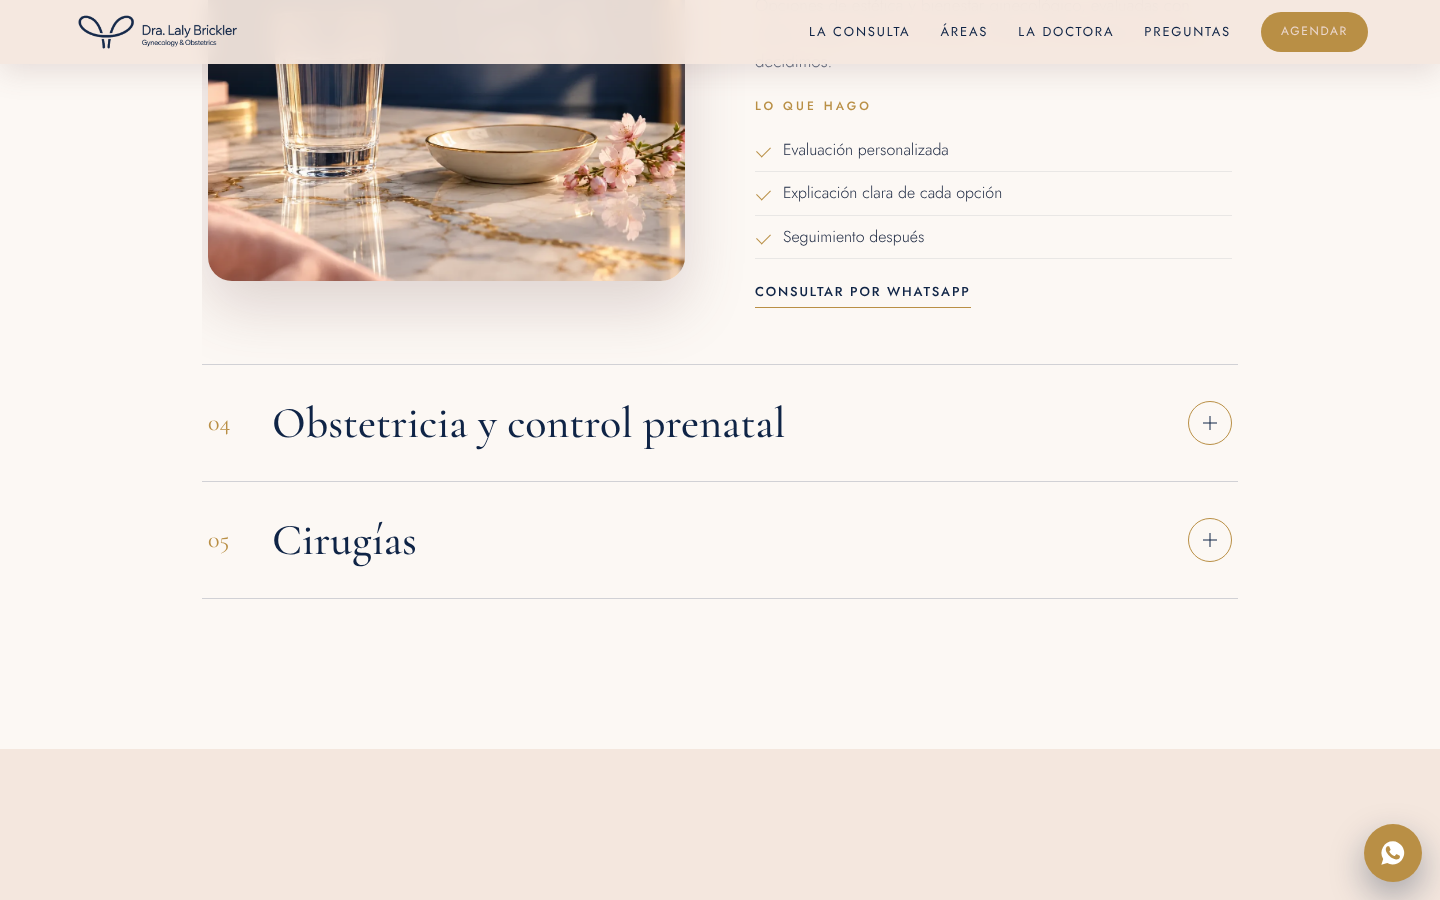
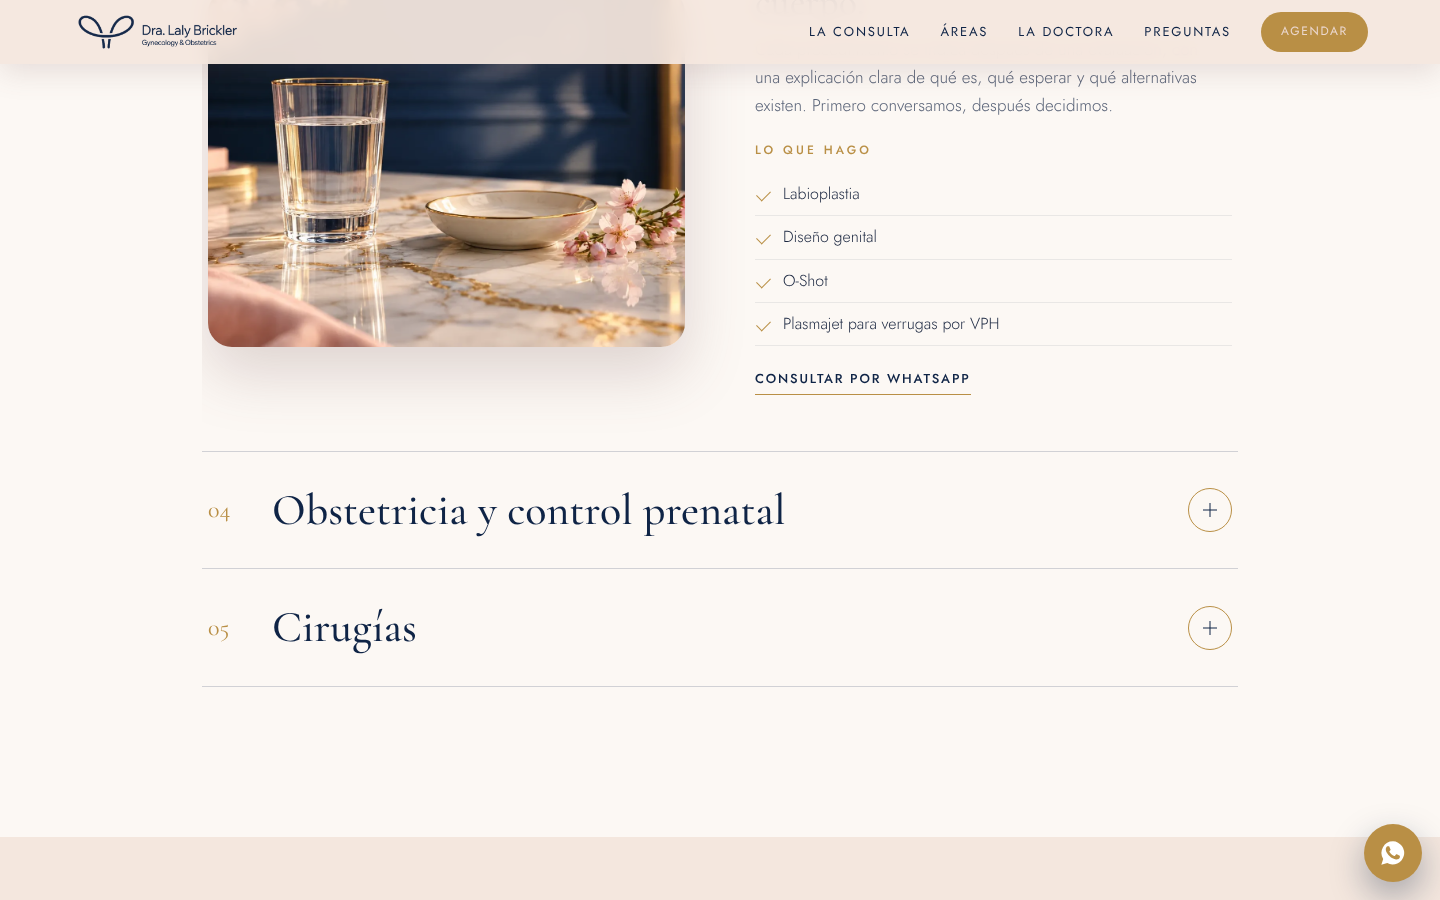
List aesthetic gynecology procedures
Claude-Session: https://claude.ai/code/session_016t7eSQbEreZDrmVY67GwuZ

diff --git a/website/index.html b/website/index.html
@@ -408,9 +408,9 @@ footer .fine a{text-decoration:underline}
           <div class="acc-img"><img src="assets/terapia.webp" alt="Vaso de agua con borde dorado y flores de cerezo sobre mármol" loading="lazy" width="1400" height="1050"></div>
           <div>
             <h3>Sentirte cómoda y segura en tu cuerpo.</h3>
-            <p>Opciones de estética y bienestar ginecológico, evaluadas con calma y según lo que tú buscas. Primero conversamos, después decidimos.</p>
+            <p>Cada procedimiento se indica después de una evaluación, con una explicación clara de qué es, qué esperar y qué alternativas existen. Primero conversamos, después decidimos.</p>
             <span class="acc-label">Lo que hago</span>
-            <ul><li>Evaluación personalizada</li><li>Explicación clara de cada opción</li><li>Seguimiento después</li></ul>
+            <ul><li>Labioplastia</li><li>Diseño genital</li><li>O-Shot</li><li>Plasmajet para verrugas por VPH</li></ul>
             <a class="link" href="https://wa.me/50672498786?text=Hola%20Dra.%20Brickler%2C%20quisiera%20informaci%C3%B3n%20sobre%20est%C3%A9tica%20ginecol%C3%B3gica." target="_blank" rel="noopener">Consultar por WhatsApp</a>
           </div>
         </div></div></div>
